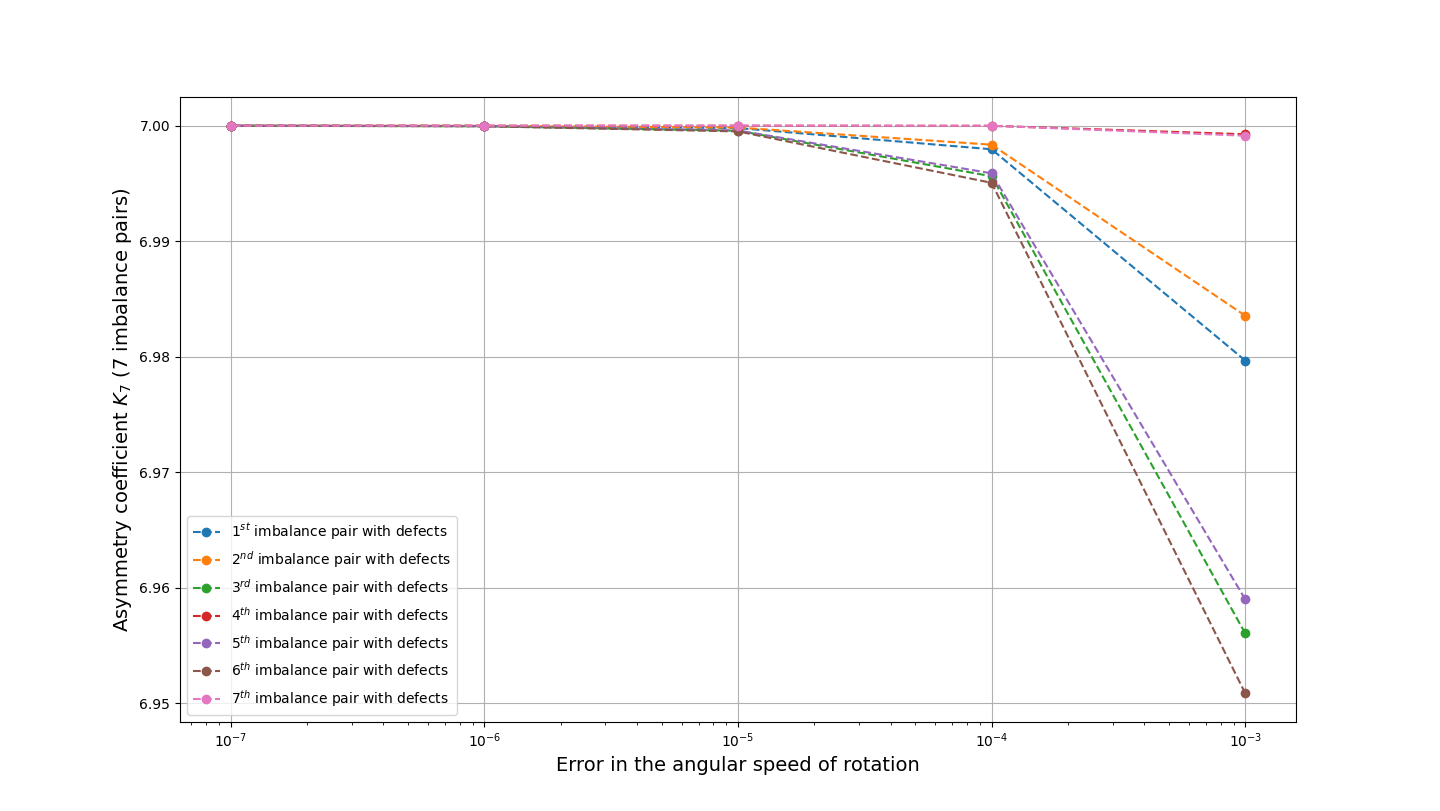
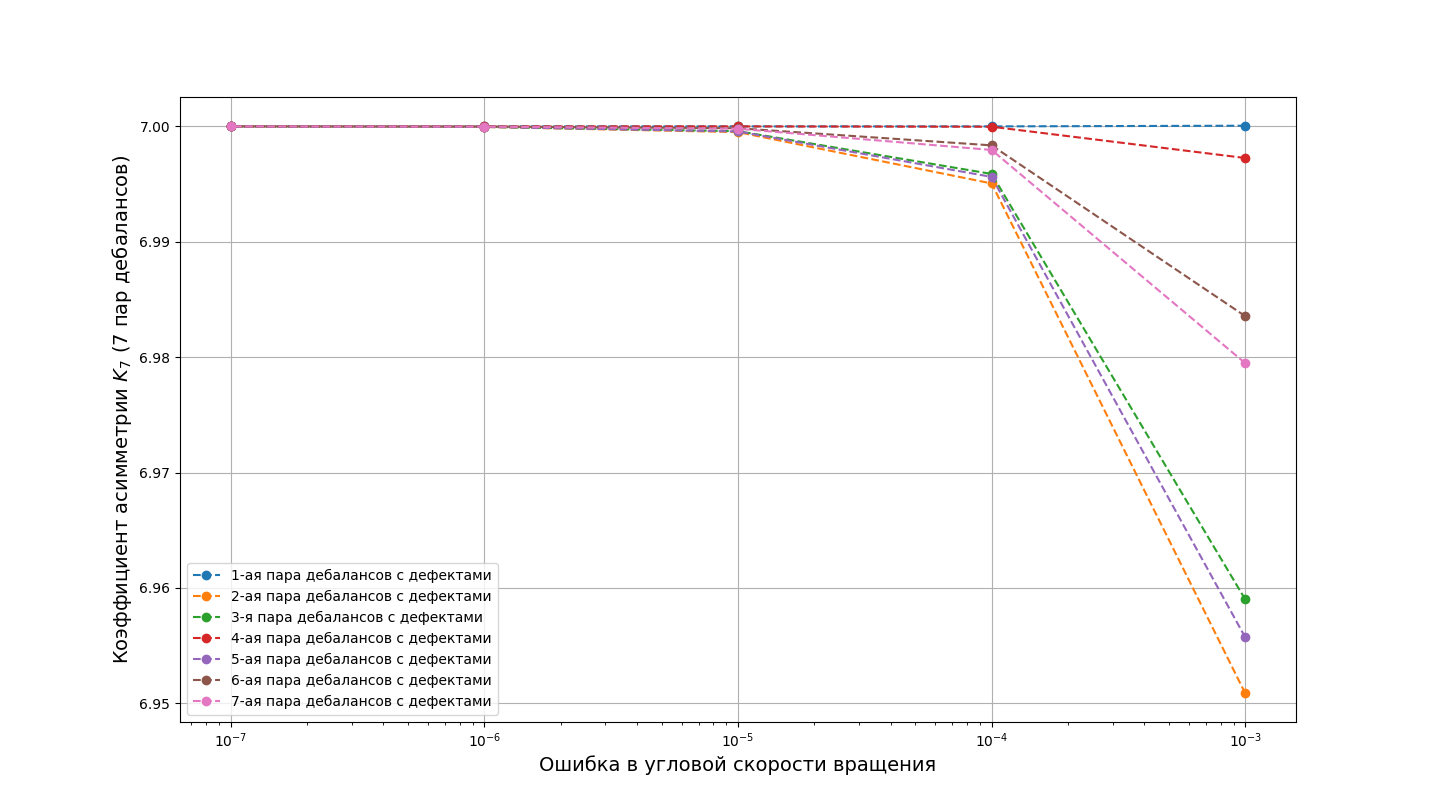
wip

diff --git a/app/acoeff.py b/app/acoeff.py
@@ -1,0 +1,80 @@
+import matplotlib.pyplot as plt
+import numpy as np
+import numpy.typing as npt
+
+
+def impulse_function(
+    t: npt.NDArray[np.float64],
+    n: int,
+    m: list[float],
+    r: list[float],
+    omega_0: float,
+    deb: int,
+    noise_power: float,
+) -> npt.NDArray[np.float64]:
+    omega = omega_0 * np.arange(1, n + 1).reshape(-1, 1)
+    noise = np.ones(n)
+    noise[deb] -= 1 * noise_power
+    noise = noise.reshape(-1, 1)
+    # m_matrix = np.array(m).reshape(-1, 1)
+    # r_matrx = np.array(r).reshape(-1, 1)
+    t_matrix = np.tile(t, (n, 1))
+    x = np.array(range(n, 0, -1)).reshape(-1, 1)
+    # return (m_matrix * (omega * noise) ** 2 * r_matrx * np.cos(omega * noise * t_matrix)).sum(axis=0)
+    return (x * np.cos(omega * t_matrix * noise)).sum(axis=0)
+
+
+m = [
+    2.75758026171761,
+    0.969494952543874,
+    0.486348994233291,
+    0.273755006621712,
+    0.155229853500278,
+    0.076567059516108,
+]
+r = [
+    0.020070401444444,
+    0.011900487555556,
+    0.008428804666667,
+    0.006323725555556,
+    0.004761892666667,
+    0.003344359555556,
+]
+
+n = 8
+# m = [(n - k + 1) for k in range(1, 7)]
+
+# t = np.linspace(-np.pi, np.pi, 1000)
+# vibration = f_ind(t=t, n=1, m=m[0], r=r[0], omega=1)
+# impulse = impulse_function(t=t, n=6, m=m, r=r, omega_0=1)
+
+
+def func(x, y):
+    t = np.linspace(-np.pi, np.pi, 10000)
+    impulse = impulse_function(t=t, n=n, m=m, r=r, omega_0=1, deb=x, noise_power=y)
+    return np.abs(np.max(impulse) / np.min(impulse))
+
+
+fig, ax = plt.subplots(1, 1)
+ax.set_ylabel(fr"Коэффициент асимметрии $K_{n}$ ({n} пар дебалансов)", fontsize=14)
+ax.set_xlabel("Ошибка в угловой скорости вращения", fontsize=14)
+ax.set_xscale("log")
+
+noise_power = np.array([10 ** -x for x in range(3, 8)])
+# noise_power = np.array([10 ** -1, 5 * 10 ** -2, 10 ** -2, 5 * 10 ** -3, 10 ** -3, 5 * 10 ** -4, 10 ** -4, 5 * 10 ** -5, 10 ** -5, 10 ** -6])
+for d in range(n):
+    deb_text = {
+        3: 'я',
+    }.get(d + 1, 'ая')
+    ax.plot(
+        noise_power,
+        [func(d, p) for p in noise_power],
+        # label=fr'${d + 1}^{{{deb_text}}}$ пара дебалансов с дефектами',
+        label=fr'{d + 1}-{deb_text} пара дебалансов с дефектами',
+        linestyle='--',
+        marker='o',
+    )
+
+plt.legend()
+plt.grid(True)
+plt.show()
